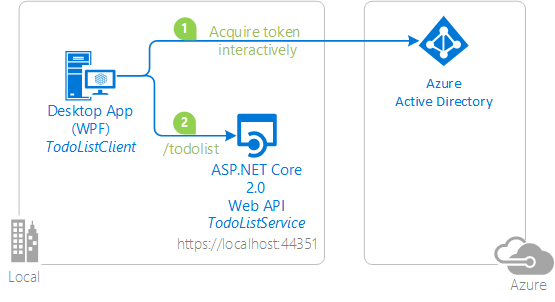
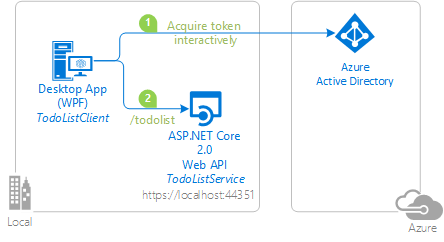
Updating documentation (readme and pictures)

diff --git a/README.md b/README.md
@@ -15,7 +15,7 @@ endpoint: AAD v2.0
 
 ### Scenario
 
-You expose a Web API and you want to protect it so that only authenticated users can access it. You want to enable authenticated users with both work and school accounts or Microsoft personal accounts (formerly live account) to use your Web API.
+You expose a Web API and you want to protect it so that only authenticated users can access it. You want to enable apps authenticating users with both work and school accounts or Microsoft personal accounts (formerly live account) to use your Web API.
 
 Later you enrich your Web API by enabling it to call another Web API such as the Microsoft Graph
 
@@ -25,16 +25,20 @@ This repository contains a progressive tutorial made of two parts:
 
 Sub folder                    | Description
 ----------------------------- | -----------
-[1. Desktop app calls Web API](1.%20Desktop%20app%20calls%20Web%20API/README.md) | Presents an ASP.NET Core 2.1 Web API protected by Azure Active Directory OAuth Bearer Authentication. This Web API is  exercised by a .NET Desktop WPF application. This subfolder contains a Visual Studio solution made of two applications: the desktop application (TodoListClient), and the Web API (TodoListService) ![Topology](1.%20Desktop%20app%20calls%20Web%20API/ReadmeFiles/topology.png)
-[2. Web API now calls Microsoft Graph](2.%20Web%20API%20now%20calls%20Microsoft%20Graph/README.md)  | Presents an increment where the Web API now calls Microsoft Graph using the on-behalf of flow
+[1. Desktop app calls Web API](1.%20Desktop%20app%20calls%20Web%20API/README.md) | This first part, presents an ASP.NET Core 2.1 Web API protected by Azure Active Directory OAuth Bearer Authentication. This Web API is  exercised by a .NET Desktop WPF application. This subfolder contains a Visual Studio solution made of two applications: the desktop application (TodoListClient), and the Web API (TodoListService) </p> ![Topology](1.%20Desktop%20app%20calls%20Web%20API/ReadmeFiles/topology.png)
+[2. Web API now calls Microsoft Graph](2.%20Web%20API%20now%20calls%20Microsoft%20Graph/README.md)  | This second part presents an increment where the Web API now calls Microsoft Graph on-behalf of the user signed-in in the desktop application. In this part, the Web API uses the Microsoft Authentication Library for .NET (MSAL.NET) to acquire a token for Microsoft Graph using the [on-behalf-of](https://aka.ms/msal-net-on-behalf-of) flow </p>  ![Topology](2.%20Web%20API%20now%20calls%20Microsoft%20Graph/ReadmeFiles/topology.png)
+
+It's also possible to jump directly to the second part.
 
 ### User experience with this sample
+
+#### In the first part of the tutorial
 
 The Web API (TodoListService) maintains an in-memory collection of to-do items per authenticated user. Several applications signed-in under the same identities share the same to-do list.
 
 The WPF application (TodoListClient) enables a user to:
 
-- Sign in. The first time a user signs in, a consent screen is presented letting the user consent for the application accessing the TodoList Service and Azure Active Directory.
+- Sign in. The first time a user signs in, a consent screen is presented letting the user consent for the application accessing the TodoList Service.
 - When the user has signed-in, the user sees the list of to-do items exposed by Web API for the signed-in identity
 - The user can add more to-do items by clicking on *Add item* button.
 
@@ -42,7 +46,11 @@ Next time a user runs the application, the user is signed-in with the same ident
 
 ![TodoList Client](1.%20Desktop%20app%20calls%20Web%20API/ReadmeFiles/todolist-client.png)
 
-The second step of the tutorials modifies the Web API so that the todo-items also mention the identity of the user adding them.
+#### In the second part of the tutorial
+
+The second phase of the tutorials modifies the Web API so that the todo-items also mention the identity of the user adding them.
+
+![TodoList Client with user name](2.%20Web%20API%20now%20calls%20Microsoft%20Graph/ReadmeFiles/todolist-client.png)
 
 ## How to run this sample
 
@@ -58,10 +66,14 @@ The second step of the tutorials modifies the Web API so that the todo-items als
 From your shell or command line:
 
 ```Shell
-git clone https://github.com/Azure-Samples/active-directory-dotnet-native-aspnetcore-v2.git
+git clone https://github.com/Azure-Samples/active-directory-dotnet-native-aspnetcore-v2.git aspnetcore-webapi
+cd aspnetcore-webapi
 ```
 
 > Given that the name of the sample is pretty long, that it has sub-folders and so are the name of the referenced NuGet pacakges, you might want to clone it in a folder close to the root of your hard drive, to avoid file size limitations on Windows.
+
+- Start by the first part [1. Desktop app calls Web API](1.%20Desktop%20app%20calls%20Web%20API/README.md) where you will learn how to protect a Web API with the Azure AD v2.0 endpoint.
+- or if you are interested in the Web API calling another downstream Web API using the on-behalf-of flow, go directly to [2. Web API now calls Microsoft Graph](2.%20Web%20API%20now%20calls%20Microsoft%20Graph/README.md)
 
 ## Community Help and Support
 
@@ -79,25 +91,8 @@ If you'd like to contribute to this sample, see [CONTRIBUTING.MD](/CONTRIBUTING.
 
 This project has adopted the [Microsoft Open Source Code of Conduct](https://opensource.microsoft.com/codeofconduct/). For more information, see the [Code of Conduct FAQ](https://opensource.microsoft.com/codeofconduct/faq/) or contact [opencode@microsoft.com](mailto:opencode@microsoft.com) with any additional questions or comments.
 
-## More information
+## Other samples and documentation
 
-> The first part of this sample is  similar to the [active-directory-dotnet-native-aspnetcore](https://github.com/Azure-Samples/active-directory-dotnet-native-aspnetcore) sample except that that one is for the Azure AD V1 endpoint
-> and the token is acquired using [ADAL.NET](https://github.com/AzureAD/azure-activedirectory-library-for-dotnet), whereas this sample is for the V2 endpoint, and the token is acquired using [MSAL.NET](https://github.com/AzureAD/microsoft-authentication-library-for-dotnet). The Web API was also modified to accept both V1 and V2 tokens.
-
-For more information, visit the following links:
-
-- To lean more about the application registration, visit:
-
-  - [Quickstart: Register an application with the Microsoft identity platform (Preview)](https://docs.microsoft.com/en-us/azure/active-directory/develop/quickstart-register-app)
-  - [Quickstart: Configure a client application to access web APIs (Preview)](https://docs.microsoft.com/en-us/azure/active-directory/develop/quickstart-configure-app-access-web-apis)
-  - [Quickstart: Quickstart: Configure an application to expose web APIs (Preview)](https://docs.microsoft.com/en-us/azure/active-directory/develop/quickstart-configure-app-expose-web-apis)
-
-- To learn more about the code, visit [Conceptual documentation for MSAL.NET](https://github.com/AzureAD/microsoft-authentication-library-for-dotnet/wiki#conceptual-documentation) and in particular:
-  - [Customizing Token cache serialization](https://github.com/AzureAD/microsoft-authentication-library-for-dotnet/wiki/token-cache-serialization)
-
-- Articles about the Azure AD V2 endpoint [http://aka.ms/aaddevv2](http://aka.ms/aaddevv2), with a focus on:
-  - [Azure Active Directory v2.0 and OAuth 2.0 On-Behalf-Of flow](https://docs.microsoft.com/en-us/azure/active-directory/develop/active-directory-v2-protocols-oauth-on-behalf-of)
-
-- [Introduction to Identity on ASP.NET Core](https://docs.microsoft.com/en-us/aspnet/core/security/authentication/identity?view=aspnetcore-2.1&tabs=visual-studio%2Caspnetcore2x)
-  - [AuthenticationBuilder](https://docs.microsoft.com/en-us/dotnet/api/microsoft.aspnetcore.authentication.authenticationbuilder?view=aspnetcore-2.0)
-  - [Azure Active Directory with ASP.NET Core](https://docs.microsoft.com/en-us/aspnet/core/security/authentication/azure-active-directory/?view=aspnetcore-2.1)
+- Other samples for Azure AD v2.0 are available from [https://aka.ms/aaddevsamplesv2](https://aka.ms/aaddevsamplesv2)
+- The conceptual documentation for MSAL.NET is available from [https://aka.ms/msalnet](https://aka.ms/msalnet)
+- the documentation for Azure AD v2.0 is available from [https://aka.ms/aadv2](https://aka.ms/aadv2)
